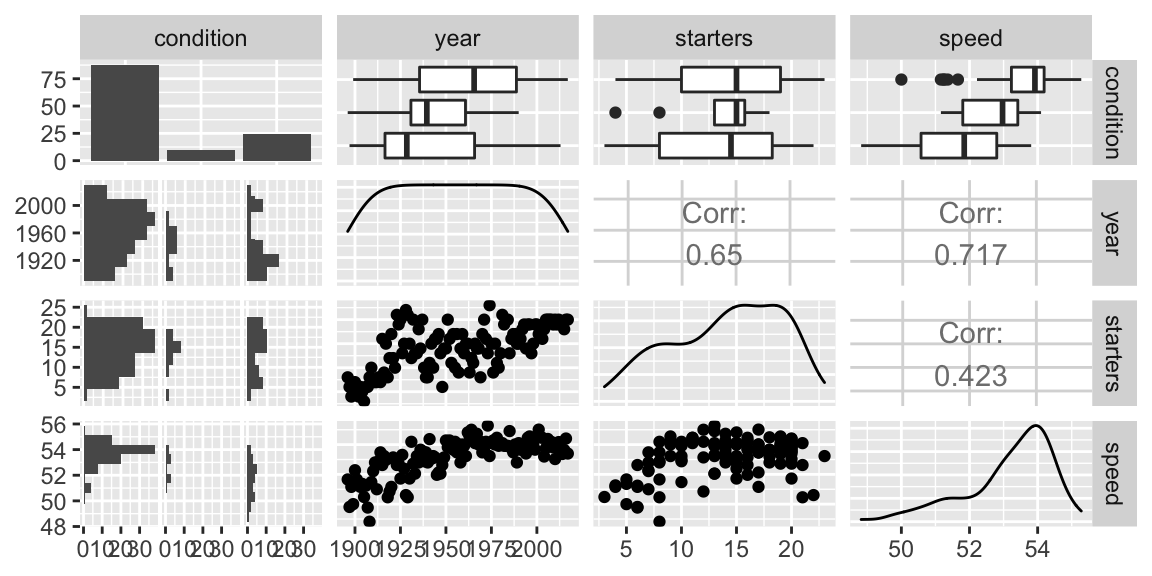
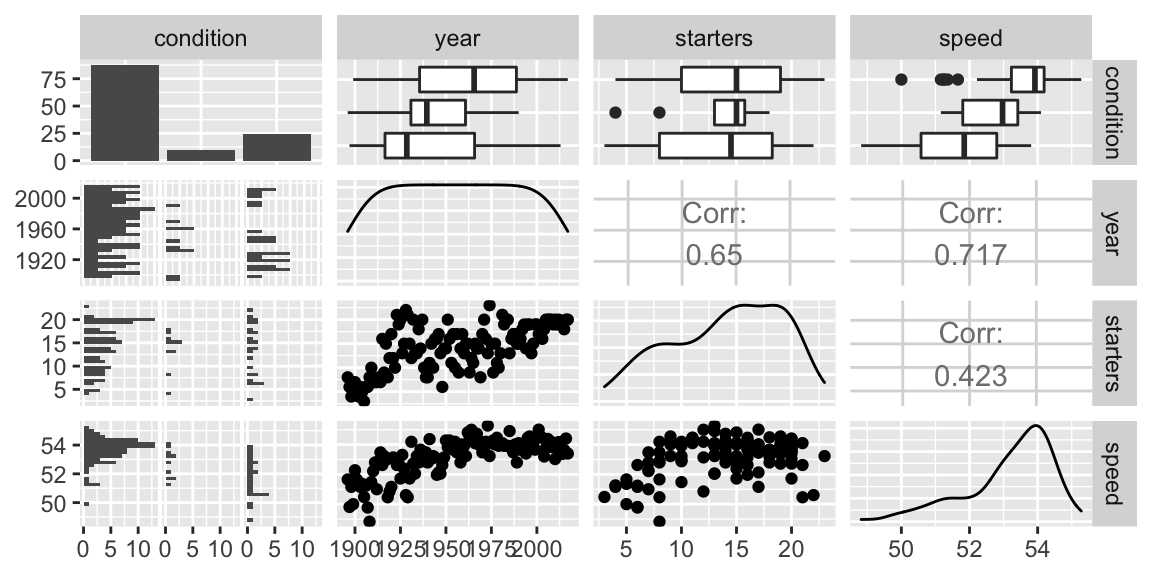
fixed var list

Changed region(s): [[0.0312, 0.5, 0.2812, 0.9688], [0.0625, 0.3125, 0.2812, 0.5], [0.0, 0.3125, 0.0625, 0.4375]]

diff --git a/docs/review-of-multiple-linear-regression.html b/docs/review-of-multiple-linear-regression.html
@@ -23,7 +23,7 @@
 
 
 
-<meta name="date" content="2022-01-01" />
+<meta name="date" content="2022-01-02" />
 
   <meta name="viewport" content="width=device-width, initial-scale=1" />
   <meta name="apple-mobile-web-app-capable" content="yes" />
@@ -190,12 +190,11 @@ code > span.in { color: #60a0b0; font-weight: bold; font-style: italic; } /* Inf
 </li>
 <li>winning horse (<code>winner</code>),<br />
 </li>
-<li><code>condition</code> of the track,<br />
+<li><code>condition</code> of the track (fast, good, slow) ,<br />
 </li>
 <li>average <code>speed</code> (in feet per second) of the winner,<br />
 </li>
 <li>number of <code>starters</code> (horses who raced)</li>
-<li>track <code>condition</code> (fast, good, slow)</li>
 </ul>
 <p>We would like to use least squares linear regression techniques to model the speed of the winning horse as a function of track condition, field size, and trends over time.</p>
 <div class="sourceCode"><pre class="sourceCode r"><code class="sourceCode r">derby.df &lt;-<span class="st"> </span><span class="kw">read.csv</span>(<span class="st">&quot;https://raw.githubusercontent.com/proback/BeyondMLR/master/data/derbyplus.csv&quot;</span>)
@@ -577,9 +576,6 @@ Figure 1.1: Histograms of key continuous variables. Plot (a) shows winning speed
 <p>The <code>ggpairs</code> function creates a scatterplot matrix displaying relationships between all pairs of variables.</p>
 <div class="sourceCode"><pre class="sourceCode r"><code class="sourceCode r">gg &lt;-<span class="st"> </span><span class="kw">ggpairs</span>(<span class="dt">data =</span> derby.df, 
               <span class="dt">columns =</span> <span class="kw">c</span>(<span class="st">&quot;condition&quot;</span>, <span class="st">&quot;year&quot;</span>, <span class="st">&quot;starters&quot;</span>, <span class="st">&quot;speed&quot;</span>))
-gg[<span class="dv">4</span>,<span class="dv">1</span>] &lt;-<span class="st"> </span>gg[<span class="dv">4</span>,<span class="dv">1</span>] <span class="op">+</span><span class="st"> </span><span class="kw">geom_histogram</span>( <span class="dt">binwidth =</span> <span class="fl">0.75</span>)
-gg[<span class="dv">2</span>,<span class="dv">1</span>] &lt;-<span class="st"> </span>gg[<span class="dv">2</span>,<span class="dv">1</span>] <span class="op">+</span><span class="st"> </span><span class="kw">geom_histogram</span>( <span class="dt">binwidth =</span> <span class="dv">20</span>)
-gg[<span class="dv">3</span>,<span class="dv">1</span>] &lt;-<span class="st"> </span>gg[<span class="dv">3</span>,<span class="dv">1</span>] <span class="op">+</span><span class="st"> </span><span class="kw">geom_histogram</span>( <span class="dt">binwidth =</span> <span class="dv">3</span>)
 gg</code></pre></div>
 <div class="figure" style="text-align: center"><span style="display:block;" id="fig:bivariate"></span>
 <img src="Stat-455-Notes_files/figure-html/bivariate-1.png" alt="Relationships between pairs of variables in the Kentucky Derby data set." width="90%" />
@@ -1077,9 +1073,6 @@ Figure 1.8: Residual plots for Model 0B.
 <p>Notice this last conclusion appears contradictory to our exploratory data analysis, which showed a positive relationship between starters and speed.</p>
 <div class="sourceCode"><pre class="sourceCode r"><code class="sourceCode r">gg &lt;-<span class="st"> </span><span class="kw">ggpairs</span>(<span class="dt">data =</span> derby.df, 
               <span class="dt">columns =</span> <span class="kw">c</span>(<span class="st">&quot;condition&quot;</span>, <span class="st">&quot;year&quot;</span>, <span class="st">&quot;starters&quot;</span>, <span class="st">&quot;speed&quot;</span>))
-gg[<span class="dv">4</span>,<span class="dv">1</span>] &lt;-<span class="st"> </span>gg[<span class="dv">4</span>,<span class="dv">1</span>] <span class="op">+</span><span class="st"> </span><span class="kw">geom_histogram</span>( <span class="dt">binwidth =</span> <span class="fl">0.75</span>)
-gg[<span class="dv">2</span>,<span class="dv">1</span>] &lt;-<span class="st"> </span>gg[<span class="dv">2</span>,<span class="dv">1</span>] <span class="op">+</span><span class="st"> </span><span class="kw">geom_histogram</span>( <span class="dt">binwidth =</span> <span class="dv">20</span>)
-gg[<span class="dv">3</span>,<span class="dv">1</span>] &lt;-<span class="st"> </span>gg[<span class="dv">3</span>,<span class="dv">1</span>] <span class="op">+</span><span class="st"> </span><span class="kw">geom_histogram</span>( <span class="dt">binwidth =</span> <span class="dv">3</span>)
 gg</code></pre></div>
 <div class="figure" style="text-align: center"><span style="display:block;" id="fig:unnamed-chunk-17"></span>
 <img src="Stat-455-Notes_files/figure-html/unnamed-chunk-17-1.png" alt="Relationships between pairs of variables in the Kentucky Derby data set." width="90%" />

diff --git a/docs/index.html b/docs/index.html
@@ -23,7 +23,7 @@
 
 
 
-<meta name="date" content="2022-01-01" />
+<meta name="date" content="2022-01-02" />
 
   <meta name="viewport" content="width=device-width, initial-scale=1" />
   <meta name="apple-mobile-web-app-capable" content="yes" />
@@ -168,7 +168,7 @@ code > span.in { color: #60a0b0; font-weight: bold; font-style: italic; } /* Inf
             <section class="normal" id="section-">
 <div id="header">
 <h1 class="title">Stat 455: Advanced Statistical Modeling Notes</h1>
-<p class="date"><em>2022-01-01</em></p>
+<p class="date"><em>2022-01-02</em></p>
 </div>
 <div id="preface" class="section level1 unnumbered">
 <h1>Preface</h1>

diff --git a/docs/404.html b/docs/404.html
@@ -23,7 +23,7 @@
 
 
 
-<meta name="date" content="2022-01-01" />
+<meta name="date" content="2022-01-02" />
 
   <meta name="viewport" content="width=device-width, initial-scale=1" />
   <meta name="apple-mobile-web-app-capable" content="yes" />
